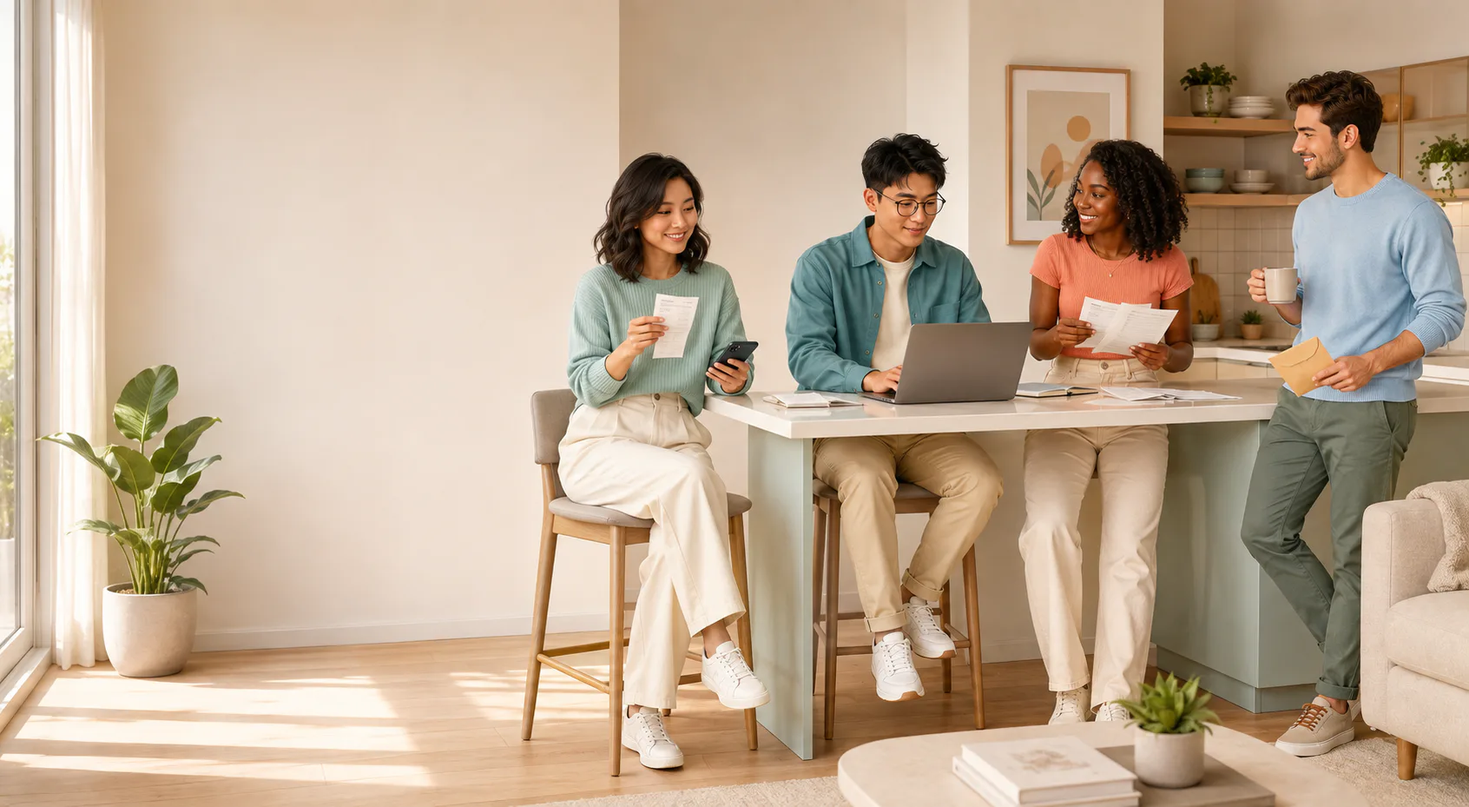
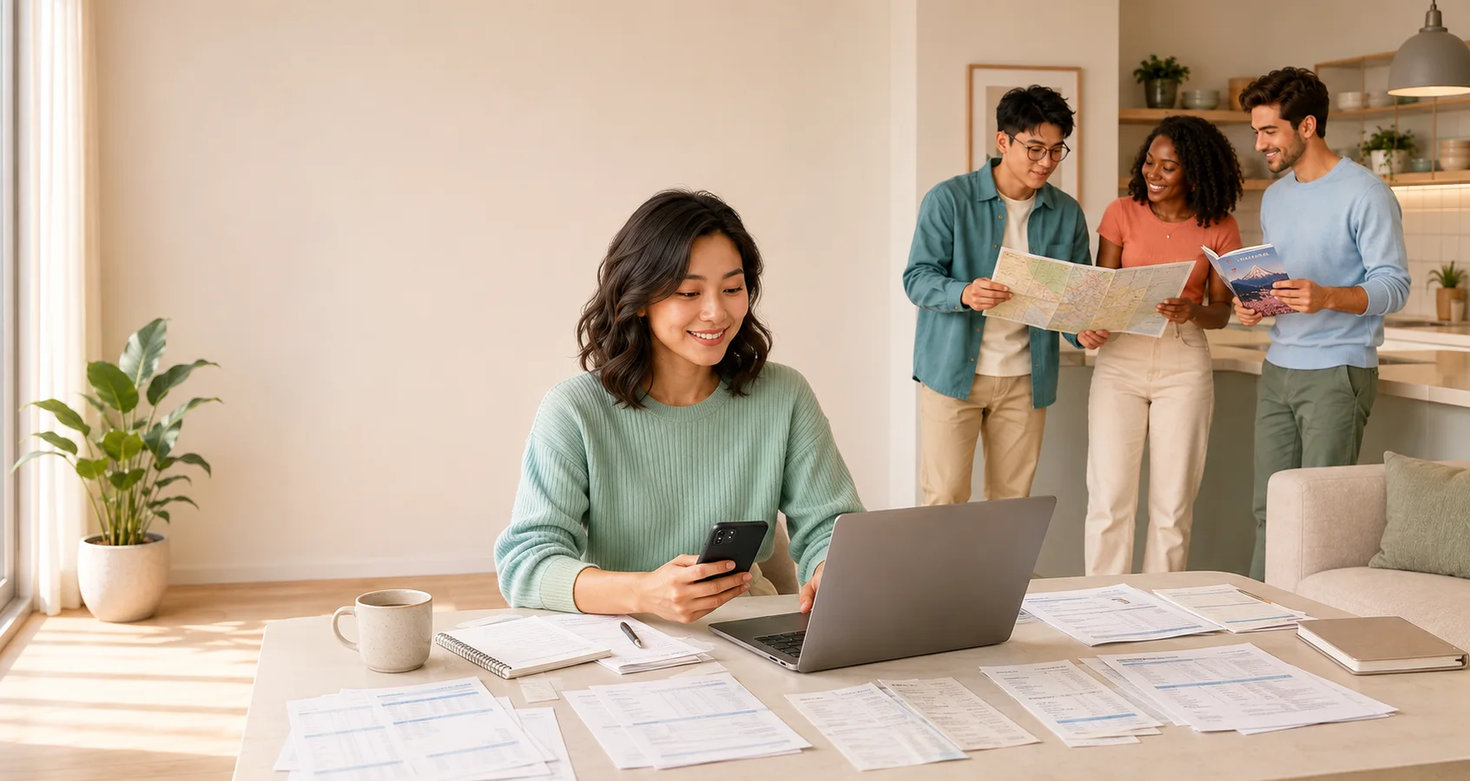
Rebuild landing preview as continuous upload story

diff --git a/web/app/landing-preview/landing-preview.module.css b/web/app/landing-preview/landing-preview.module.css
@@ -2,11 +2,12 @@
 .journey *{box-sizing:border-box}.stage{position:sticky;top:0;height:100svh;min-height:620px;overflow:hidden;isolation:isolate;background:radial-gradient(circle at 78% 22%,rgba(112,230,189,.3),transparent 27%),radial-gradient(circle at 60% 88%,rgba(3,168,192,.19),transparent 30%),linear-gradient(135deg,#fbfdfd,#eefaf8)}
 .header{position:absolute;z-index:50;top:14px;right:clamp(16px,3vw,44px);left:clamp(16px,3vw,44px);display:grid;grid-template-columns:1fr auto 1fr;align-items:center;height:66px;padding:9px 14px 9px 18px;border:1px solid rgba(255,255,255,.94);border-radius:22px;background:rgba(255,255,255,.82);box-shadow:0 14px 40px rgba(20,74,86,.1);backdrop-filter:blur(22px) saturate(1.2)}
 .header a{color:inherit;text-decoration:none}.brand{display:flex;align-items:center;gap:8px;justify-self:start}.brand img:first-child{width:34px;height:34px}.brand img:last-child{width:auto;height:26px}.header nav{display:flex;gap:28px;font-size:13px;font-weight:650}.headerActions{display:flex;align-items:center;justify-content:flex-end;gap:10px;font-size:13px;font-weight:700}.headerActions a:last-child{padding:10px 18px;border-radius:999px;color:#fff;background:linear-gradient(135deg,var(--teal),#4bc9ca)}
-.world{position:absolute;z-index:0;inset:0;overflow:hidden;background:#eef8f6}.sceneStack,.scene,.scene img{position:absolute;inset:0;width:100%;height:100%}.scene{display:block;opacity:0;transform:scale(1.035);transition:opacity .75s ease,transform 1.5s cubic-bezier(.16,1,.3,1)}.scene[data-active=true]{opacity:1;transform:scale(1)}.scene img{object-fit:cover;object-position:right center}.worldWash{position:absolute;inset:0;background:linear-gradient(90deg,rgba(249,253,253,.99) 0 35%,rgba(249,253,253,.88) 43%,rgba(249,253,253,.16) 69%,rgba(238,251,248,.04));transition:background .7s ease}.world svg{position:absolute;inset:0;width:100%;height:100%;fill:none;stroke:rgba(3,168,192,.2);stroke-width:2;stroke-dasharray:7 13;stroke-dashoffset:var(--path-offset,0);pointer-events:none}
+.world{position:absolute;z-index:0;inset:0;overflow:hidden;background:#eef8f6}.sceneStack,.scene,.sceneBackdrop,.sceneSubject,.sceneSubject img{position:absolute;inset:0;width:100%;height:100%}.scene{display:block;opacity:0;transform:scale(1.035);transition:opacity .75s ease,transform 1.5s cubic-bezier(.16,1,.3,1)}.scene[data-active=true]{opacity:1;transform:scale(1)}.scene img{object-fit:cover;object-position:right center}.sceneBackdrop{display:none}.worldWash{position:absolute;inset:0;background:linear-gradient(90deg,rgba(249,253,253,.99) 0 35%,rgba(249,253,253,.88) 43%,rgba(249,253,253,.16) 69%,rgba(238,251,248,.04));transition:background .7s ease}.world svg{position:absolute;inset:0;width:100%;height:100%;fill:none;stroke:rgba(3,168,192,.2);stroke-width:2;stroke-dasharray:7 13;stroke-dashoffset:var(--path-offset,0);pointer-events:none}
 .story{position:absolute;z-index:15;inset:0;pointer-events:none}.chapter{position:absolute;top:50%;left:clamp(30px,6.5vw,108px);width:min(520px,41vw);translate:0 -42%;opacity:0;filter:blur(7px);transform:translateY(24px);transition:opacity .5s ease,transform .75s cubic-bezier(.16,1,.3,1),filter .5s ease;pointer-events:none}.chapter[data-active=true]{opacity:1;filter:none;transform:none;pointer-events:auto}.chapter h1{margin:0;color:var(--ink);font-size:clamp(36px,3.75vw,56px);font-weight:600;line-height:1.04;letter-spacing:-.045em}.chapter h1 em{display:block;max-width:100%;color:var(--teal);font-style:normal;font-weight:600;overflow-wrap:break-word}.chapter p{max-width:490px;margin:18px 0 0;color:#43566b;font-size:clamp(15px,1.18vw,18px);line-height:1.52}.actions{display:flex;gap:11px;margin-top:24px;pointer-events:auto}.actions :global(.button){min-height:44px;padding-inline:19px;font-size:12px;box-shadow:0 12px 30px rgba(14,105,117,.11)}
 .people{position:absolute;z-index:7;right:2vw;bottom:2vh;width:min(36vw,520px);max-height:76vh;opacity:0;transform:translate3d(8vw,8vh,0) scale(.83);transform-origin:bottom right;filter:drop-shadow(0 25px 35px rgba(15,60,70,.16));transition:opacity .7s ease,transform 1s cubic-bezier(.16,1,.3,1);pointer-events:none}.people img{display:block;width:100%;height:auto;max-height:76vh;object-fit:contain;object-position:bottom}
 .documents{position:absolute;z-index:18;right:39vw;top:47%;width:255px;height:350px;opacity:0;transform:translateY(-35%) scale(.78);transition:opacity .55s ease,transform .85s cubic-bezier(.16,1,.3,1);pointer-events:none}.documents>div{position:absolute;width:165px;height:210px;padding:17px;border:1px solid rgba(255,255,255,.9);border-radius:16px;background:rgba(255,255,255,.93);box-shadow:0 20px 55px rgba(22,80,89,.16)}.documents>div:nth-child(1){top:0;left:0;rotate:-10deg}.documents>div:nth-child(2){right:0;bottom:0;rotate:9deg}.documents>div:nth-child(3){right:-13px;top:4px;rotate:14deg;background:#e5faf2}.documents>div:nth-child(4){left:-19px;bottom:0;rotate:-16deg;background:#e8f8fc}.documents small{display:block;color:#819096;font-size:8px;font-weight:800;letter-spacing:.13em}.documents b{display:block;margin:12px 0;font-size:18px}.documents i{display:block;height:5px;margin:9px 0;border-radius:9px;background:#d8e7e8}.documents span{display:grid;place-items:center;height:105px;color:var(--teal);font-size:44px}
 .phone{position:absolute;z-index:21;right:8vw;top:51%;width:300px;min-height:490px;padding:22px;border:8px solid #19303a;border-radius:42px;opacity:0;transform:translateY(-40%) scale(.65) rotate(7deg);background:#f8fbfc;box-shadow:0 34px 90px rgba(15,60,70,.28);transition:opacity .6s ease,transform .9s cubic-bezier(.16,1,.3,1);pointer-events:none}.phone::before{content:"";position:absolute;top:9px;left:50%;width:82px;height:20px;translate:-50%;border-radius:20px;background:#19303a}.phoneBar{display:flex;align-items:center;gap:9px;margin:11px -2px 25px;padding-bottom:12px;border-bottom:1px solid #dbe7ea;color:#314754;font-size:12px;font-weight:750}.phoneBar i{margin-left:auto;width:25px;height:25px;border-radius:50%;background:linear-gradient(135deg,var(--teal),var(--mint))}.phone>strong{display:block;font-size:23px;line-height:1.12}.phone>p{margin:8px 0 20px;color:#6c7a8a;font-size:12px;line-height:1.45}.uploadRows{display:grid;gap:8px}.uploadRows>span{display:flex;padding:12px;border-radius:12px;background:#eef6f7;color:#40545e;font-size:11px;font-weight:700}.uploadRows b{margin-left:auto;color:#009b85;font-size:10px}.phone>button{width:100%;margin-top:18px;padding:13px;border:0;border-radius:999px;color:#fff;background:linear-gradient(135deg,var(--teal),#48c9cb);font:inherit;font-size:12px;font-weight:800}
+.uploadDrop{display:grid;grid-template-columns:1fr 1fr;gap:7px;margin:0 0 10px;padding:11px;border:1px dashed rgba(3,168,192,.45);border-radius:13px;background:#f1fbfb}.uploadDrop b{grid-column:1/-1;color:#344d58;font-size:9px}.uploadDrop span{padding:7px 4px;border-radius:999px;color:#fff;background:var(--teal);font-size:8px;font-weight:800;text-align:center}.uploadDrop span+span{color:#087985;background:#fff;border:1px solid #bfe8ec}
 .laptop{position:absolute;z-index:20;right:4vw;top:51%;width:min(49vw,690px);opacity:0;transform:translateY(-37%) translateX(8vw) scale(.72);transition:opacity .65s ease,transform 1s cubic-bezier(.16,1,.3,1);pointer-events:none}.laptopScreen{overflow:hidden;aspect-ratio:16/10;padding:12px;border:10px solid #243a42;border-radius:22px;background:#f7fafb;box-shadow:0 34px 90px rgba(15,60,70,.25)}.laptopBase{display:block;width:112%;height:18px;margin:-2px 0 0 -6%;border-radius:3px 3px 16px 16px;background:linear-gradient(#dce6e8,#aebdc1)}.appBar{display:flex;align-items:center;gap:10px;height:42px;padding:0 10px;border-bottom:1px solid #dbe7ea;font-size:11px;font-weight:800}.appBar i{width:8px;height:8px;margin-left:auto;border-radius:50%;background:#c9dadc}.appBar i+i{margin-left:-5px;background:var(--teal)}.balance{margin:14px 12px 10px;padding:16px 18px;border-radius:17px;color:#fff;background:linear-gradient(110deg,#03a8c0,#64d9cb)}.balance small,.balance span{display:block;font-size:8px;letter-spacing:.13em}.balance strong{display:block;margin:5px 0;font-size:27px}.summary{display:grid;grid-template-columns:repeat(3,1fr);gap:8px;margin:0 12px}.summary>div{padding:11px;border:1px solid #e0e9eb;border-radius:10px;background:#fff}.summary small{display:block;color:#839097;font-size:7px;letter-spacing:.1em}.summary b{display:block;margin-top:4px;font-size:11px}.transactionRows{display:grid;margin:10px 12px}.transactionRows span{display:grid;grid-template-columns:8px 1fr auto;align-items:center;gap:8px;padding:7px;border-bottom:1px solid #e6edef;font-size:9px;font-weight:700}.transactionRows i{width:6px;height:6px;border-radius:50%;background:var(--teal)}.transactionRows b{font-size:9px}
 .adviser{position:absolute;z-index:23;right:6vw;top:51%;width:min(42vw,570px);padding:25px;border:1px solid rgba(255,255,255,.9);border-radius:26px;opacity:0;transform:translateY(-38%) scale(.72) rotate(3deg);background:rgba(255,255,255,.92);box-shadow:0 32px 85px rgba(16,69,79,.2);backdrop-filter:blur(22px);transition:opacity .6s ease,transform .95s cubic-bezier(.16,1,.3,1);pointer-events:none}.adviser>div:first-child{display:flex;align-items:center;gap:11px}.adviser>div:first-child span{display:grid}.adviser small{color:#788892;font-size:8px;letter-spacing:.14em}.adviser>div:first-child b{font-size:14px}.adviser>p{margin:23px 0;color:#223a45;font-size:clamp(17px,1.55vw,22px);font-weight:560;line-height:1.42}.suggestion{display:grid;grid-template-columns:auto 1fr auto;align-items:center;gap:12px;padding:14px;border-radius:16px;background:linear-gradient(135deg,#e7faf3,#e9f8fc)}.suggestion span{display:grid;place-items:center;width:41px;aspect-ratio:1;border-radius:13px;background:#ffd96d}.suggestion b{font-size:12px}.suggestion strong{font-size:12px;color:#087985}.adviser>button{display:block;margin:17px 0 0 auto;padding:11px 16px;border:0;border-radius:999px;color:#fff;background:var(--teal);font:inherit;font-size:11px;font-weight:800}
 .planCard{position:absolute;z-index:24;right:5vw;bottom:5vh;width:min(34vw,440px);padding:22px;border:1px solid rgba(255,255,255,.92);border-radius:25px;opacity:0;transform:translateY(30px) scale(.76);background:rgba(255,255,255,.94);box-shadow:0 30px 80px rgba(17,69,80,.22);backdrop-filter:blur(22px);transition:opacity .6s ease,transform .95s cubic-bezier(.16,1,.3,1);pointer-events:none}.planCard>div:first-child{display:flex;align-items:center;gap:10px}.planCard>div:first-child span{display:grid}.planCard small{color:#76868f;font-size:8px;letter-spacing:.12em}.planCard b{font-size:14px}.planCard>strong{display:block;margin:18px 0 13px;color:#087985;font-size:28px}.planCard>strong small{font-size:10px}.planCard>div:nth-of-type(2){display:grid;grid-template-columns:repeat(4,1fr);gap:5px;height:9px}.planCard i{border-radius:99px;background:#d9edef}.planCard i:nth-child(-n+3){background:linear-gradient(90deg,var(--teal),var(--mint))}.planCard>p{margin:9px 0 0;color:#526571;font-size:10px;font-weight:700}
@@ -110,4 +111,53 @@
   .chapter p{font-size:11.5px}
   .actions{width:min(228px,67vw)}
   .sceneStack{top:31%;height:45%}
+}
+
+/* Continuous story engine: the background, copy and Clover surfaces all
+   interpolate with scroll position rather than waiting for a hard chapter. */
+.journey{height:520svh}
+.scene{transition:none;will-change:opacity,transform}
+.scene:nth-child(1){transform-origin:63% 70%}.scene:nth-child(2){transform-origin:62% 65%}.scene:nth-child(3){transform-origin:58% 68%}.scene:nth-child(4){transform-origin:64% 63%}.scene:nth-child(5){transform-origin:66% 72%}.scene:nth-child(6){transform-origin:65% 70%}
+.chapter,.documents,.phone,.laptop,.adviser,.planCard{transition:none;will-change:opacity,transform}
+.ingestionPortal{position:absolute;z-index:26;bottom:11vh;left:clamp(34px,5.4vw,82px);display:grid;grid-template-columns:auto 1fr;align-items:center;gap:11px;width:min(300px,23vw);padding:13px 15px;border:1px solid rgba(255,255,255,.92);border-radius:20px;background:rgba(255,255,255,.92);box-shadow:0 24px 65px rgba(15,73,83,.18);backdrop-filter:blur(18px);pointer-events:none;will-change:opacity,transform}
+.ingestionPortal>span:nth-child(2){display:grid}.ingestionPortal small{color:#71858d;font-size:7px;font-weight:800;letter-spacing:.14em}.ingestionPortal b{font-size:11px;line-height:1.25}.ingestionPulse{position:relative;display:grid;place-items:center;width:55px;height:55px;border-radius:18px;background:linear-gradient(135deg,#e7fbf4,#e8f8fc)}.ingestionPulse::before,.ingestionPulse::after{content:"";position:absolute;inset:-7px;border:1px solid rgba(3,168,192,.34);border-radius:23px;animation:ingestion-pulse 2.2s ease-out infinite}.ingestionPulse::after{animation-delay:1.1s}.ingestionPortal>i{position:absolute;right:-18px;width:7px;height:7px;border-radius:50%;background:var(--teal);box-shadow:0 0 0 6px rgba(3,168,192,.1);animation:ingestion-particle 1.8s ease-in-out infinite}.ingestionPortal>i:nth-of-type(1){top:18px}.ingestionPortal>i:nth-of-type(2){top:40px;animation-delay:.4s}.ingestionPortal>i:nth-of-type(3){top:61px;animation-delay:.8s}
+@keyframes ingestion-pulse{0%{opacity:.7;transform:scale(.82)}80%,100%{opacity:0;transform:scale(1.18)}}
+@keyframes ingestion-particle{0%,100%{opacity:.25;transform:translateX(-2px)}50%{opacity:1;transform:translateX(17px)}}
+
+@media(min-width:901px){
+  .sceneSubject img{object-fit:cover;object-position:center center}
+  .documents{bottom:1vh;left:clamp(240px,21vw,315px)}
+  .phone{bottom:2.5vh}
+  .laptop{bottom:2vh}
+  .adviser{bottom:3vh}
+  .planCard{bottom:5vh}
+}
+
+@media(min-width:901px) and (max-width:1199px){
+  .sceneBackdrop{display:block;background-image:var(--scene-backdrop);background-position:center;background-size:cover;filter:blur(13px) saturate(.82);transform:scale(1.06);opacity:.42}
+  .sceneSubject img{object-fit:contain;object-position:right center}
+  .documents{left:18px;width:205px;height:275px}.documents>div{width:132px;height:168px}
+}
+
+@media(max-width:900px){
+  .journey{height:560svh}
+  .sceneStack{inset:0;height:100%}
+  .sceneSubject img{object-fit:cover;object-position:center center}
+  .world>.worldWash,.journey[data-chapter="5"] .worldWash{background:linear-gradient(180deg,rgba(249,253,253,.98) 0 27%,rgba(249,253,253,.84) 34%,rgba(249,253,253,.16) 43%,transparent 49%)}
+  .ingestionPortal{top:auto;bottom:72px;left:14px;width:min(225px,67vw);padding:10px 12px;border-radius:16px}
+  .ingestionPulse{width:42px;height:42px;border-radius:13px}.ingestionPulse img{width:34px;height:34px}.ingestionPortal b{font-size:9px}
+  .documents{top:auto;bottom:5px;left:0;width:104px;height:132px}
+  .documents>div{width:66px;height:82px;padding:6px;border-radius:8px}.documents small{font-size:4px}.documents b{margin:4px 0;font-size:8px}.documents i{height:2px;margin:4px 0}.documents span{height:35px;font-size:18px}
+  .phone{right:14px;bottom:10px;left:auto;width:min(45vw,180px);min-height:285px;padding:15px;border-width:6px;border-radius:30px}
+  .phone::before{width:55px;height:14px}.phoneBar{margin-bottom:14px}.phone>strong{font-size:17px}.phone>p{margin:6px 0 9px;font-size:9px}.uploadDrop{gap:4px;margin-bottom:7px;padding:7px}.uploadDrop b{font-size:7px}.uploadDrop span{padding:5px 2px;font-size:6px}.uploadRows{gap:4px}.uploadRows>span{padding:6px;font-size:7px}.uploadRows b{font-size:6px}.phone>button{margin-top:8px;padding:8px;font-size:8px}
+  .laptop{right:auto;bottom:8px;left:12px;width:82vw}
+  .adviser{right:auto;bottom:8px;left:12px;width:76vw;padding:14px}.adviser>p{margin:10px 0;font-size:12px}.suggestion{padding:9px}.adviser>button{margin-top:10px}
+  .planCard{right:auto;bottom:10px;left:12px;width:66vw;padding:14px}.planCard>strong{margin:12px 0 9px;font-size:22px}
+}
+
+@media(max-width:540px){
+  .sceneStack{inset:0;height:100%}
+  .chapter{top:78px}
+  .chapter h1{font-size:clamp(23px,6.7vw,28px)}
+  .chapter p{max-width:35ch;font-size:11px}
 }

diff --git a/web/app/landing-preview/landing-journey.tsx b/web/app/landing-preview/landing-journey.tsx
@@ -7,11 +7,11 @@ import { LandingSignupModal } from "@/components/landing-signup-modal";
 import styles from "./landing-preview.module.css";
 
 const chapters = [
-  { title: <>Months of finances.<br /><em>Organized in minutes.</em></>, copy: "Upload statements, receipts, screenshots, or spreadsheets. Understand your money and take one clearer step at a time." },
-  { title: <>Never rebuild your financial history <em>again.</em></>, copy: "Bring the files already on your phone or computer. Clover reads the details so you do not have to enter every transaction manually." },
-  { title: <>Your files become one clear <em>financial picture.</em></>, copy: "Transactions, accounts, balances, and categories come together in a searchable view you can review and correct." },
-  { title: <>Finally understand where your money actually <em>goes.</em></>, copy: "Ask Adviser what changed, what caused it, and what deserves your attention next—using your own financial context." },
-  { title: <>Turn every insight into one clear <em>next step.</em></>, copy: "Build a budget, adjust a goal, review a recurring payment, or settle a shared expense right from the recommendation." },
+  { title: <>Months of finances.<br /><em>Organized in minutes.</em></>, copy: "Drop in statements, receipts, screenshots, or spreadsheets. Clover turns what you already have into a financial picture you can use." },
+  { title: <>Do not rebuild your financial history <em>by hand.</em></>, copy: "Clover reads dates, merchants, amounts, and accounts while you stay in control of what gets confirmed." },
+  { title: <>Everything lands in one clear <em>financial picture.</em></>, copy: "Your accounts, transactions, balances, and categories become searchable, reviewable, and easy to correct." },
+  { title: <>Ask what your money can make <em>possible.</em></>, copy: "Could you comfortably afford Japan next spring? Adviser answers using your own spending, commitments, and goals." },
+  { title: <>Turn the answer into a plan that <em>fits.</em></>, copy: "Clover suggests a realistic monthly amount and lets you adjust the plan before making it yours." },
   { title: <>Your money, handled.<br /><em>Your life, uninterrupted.</em></>, copy: null },
 ] as const;
 
@@ -38,6 +38,9 @@ const marketContent = {
   },
 } as const;
 
+const clamp = (value: number, minimum = 0, maximum = 1) => Math.min(maximum, Math.max(minimum, value));
+const presenceAround = (position: number, center: number, radius: number) => clamp(1 - Math.abs(position - center) / radius);
+
 function JourneyActions({ authEnabled, final = false }: { authEnabled: boolean; final?: boolean }) {
   return <div className={styles.actions}>
     {authEnabled ? <LandingSignupModal enabled>Organize my finances for free</LandingSignupModal> : <Link className="button button-primary button-pill" href="/sign-up" prefetch={false}>Organize my finances for free</Link>}
@@ -49,6 +52,7 @@ export function LandingJourney({ authEnabled, initialMarket, countryResolved }: 
   const journeyRef = useRef<HTMLDivElement>(null);
   const frameRef = useRef<number | null>(null);
   const [chapter, setChapter] = useState(0);
+  const [storyPosition, setStoryPosition] = useState(0);
   const [market, setMarket] = useState<LandingMarket>(initialMarket);
 
   useEffect(() => {
@@ -66,10 +70,12 @@ export function LandingJourney({ authEnabled, initialMarket, countryResolved }: 
       const bounds = journey.getBoundingClientRect();
       const distance = Math.max(1, journey.offsetHeight - window.innerHeight);
       const progress = Math.min(1, Math.max(0, -bounds.top / distance));
-      const nextChapter = Math.min(chapters.length - 1, Math.floor(progress * chapters.length));
+      const nextPosition = progress * (chapters.length - 1);
+      const nextChapter = Math.min(chapters.length - 1, Math.round(nextPosition));
       journey.style.setProperty("--journey-progress", progress.toFixed(4));
       journey.style.setProperty("--path-offset", `${progress * -240}px`);
       setChapter((current) => current === nextChapter ? current : nextChapter);
+      setStoryPosition((current) => Math.abs(current - nextPosition) < 0.002 ? current : nextPosition);
     };
     const requestUpdate = () => { if (frameRef.current === null) frameRef.current = window.requestAnimationFrame(update); };
     update();
@@ -86,11 +92,31 @@ export function LandingJourney({ authEnabled, initialMarket, countryResolved }: 
     const journey = journeyRef.current;
     if (!journey) return;
     const distance = journey.offsetHeight - window.innerHeight;
-    const top = window.scrollY + journey.getBoundingClientRect().top + distance * ((index + 0.08) / chapters.length);
+    const top = window.scrollY + journey.getBoundingClientRect().top + distance * (index / (chapters.length - 1));
     window.scrollTo({ top, behavior: window.matchMedia("(prefers-reduced-motion: reduce)").matches ? "auto" : "smooth" });
   };
 
   const local = marketContent[market];
+  const sceneMotion = (index: number): CSSProperties => {
+    const distance = storyPosition - index;
+    return {
+      opacity: clamp(1 - Math.abs(distance)),
+      transform: `translate3d(${distance * -1.2}%, ${distance * -0.6}%, 0) scale(${1 + Math.min(1, Math.abs(distance)) * 0.065})`,
+    };
+  };
+  const chapterMotion = (index: number): CSSProperties => {
+    const distance = storyPosition - index;
+    return {
+      opacity: clamp(1 - Math.abs(distance) * 1.35),
+      filter: `blur(${Math.min(8, Math.abs(distance) * 8)}px)`,
+      transform: `translate3d(0, ${distance * -22}px, 0)`,
+    };
+  };
+  const visualMotion = (center: number, radius: number, direction = 1): CSSProperties => {
+    const presence = presenceAround(storyPosition, center, radius);
+    const travel = (storyPosition - center) * 34 * direction;
+    return { opacity: presence, transform: `translate3d(${travel}px, ${Math.abs(storyPosition - center) * 8}px, 0) scale(${0.88 + presence * 0.12})` };
+  };
 
   return <div ref={journeyRef} className={styles.journey} data-chapter={chapter} data-market={market} style={{ "--journey-progress": 0 } as CSSProperties}>
     <div className={styles.stage}>
@@ -106,10 +132,13 @@ export function LandingJourney({ authEnabled, initialMarket, countryResolved }: 
       <div className={styles.world} aria-hidden="true">
         <div className={styles.sceneStack}>
           {scenes.map((scene, index) => (
-            <picture className={styles.scene} data-active={chapter === index} key={scene}>
-              <source media="(max-width: 900px)" srcSet={`/assets/landing-story-v2/${scene}-mobile.webp`} />
-              <img src={`/assets/landing-story-v2/${scene}.webp`} alt="" fetchPriority={index === 0 ? "high" : "auto"} />
-            </picture>
+            <div className={styles.scene} data-active={chapter === index} key={scene} style={sceneMotion(index)}>
+              <span className={styles.sceneBackdrop} style={{ "--scene-backdrop": `url("/assets/landing-story-v2/${scene}.webp")` } as CSSProperties} />
+              <picture className={styles.sceneSubject}>
+                <source media="(max-width: 900px)" srcSet={`/assets/landing-story-v2/${scene}-mobile.webp`} />
+                <img src={`/assets/landing-story-v2/${scene}.webp`} alt="" fetchPriority={index === 0 ? "high" : "auto"} />
+              </picture>
+            </div>
           ))}
         </div>
         <div className={styles.worldWash} />
@@ -117,37 +146,44 @@ export function LandingJourney({ authEnabled, initialMarket, countryResolved }: 
       </div>
 
       <section className={styles.story} aria-live="polite">
-        {chapters.map((item, index) => <div className={styles.chapter} data-active={chapter === index} key={index} aria-hidden={chapter !== index}>
+        {chapters.map((item, index) => <div className={styles.chapter} data-active={chapter === index} key={index} aria-hidden={chapter !== index} style={chapterMotion(index)}>
           <h1>{item.title}</h1>
           {item.copy ? <p>{item.copy}</p> : null}
           {(index === 0 || index === chapters.length - 1) && <JourneyActions authEnabled={authEnabled} final={index === chapters.length - 1} />}
         </div>)}
       </section>
 
-      <div className={styles.documents} data-story-visual="documents" aria-hidden="true">
+      <div className={styles.ingestionPortal} data-story-visual="ingestion" aria-hidden="true" style={visualMotion(0.15, 0.48)}>
+        <span className={styles.ingestionPulse}><Image src="/clover-mark.svg" alt="" width={46} height={46} /></span>
+        <span><small>CLOVER UPLOAD</small><b>Drop in what you already have</b></span>
+        <i /><i /><i />
+      </div>
+
+      <div className={styles.documents} data-story-visual="documents" aria-hidden="true" style={visualMotion(0.1, 0.42)}>
         <div><small>{local.documents[0][0]}</small><b>{local.documents[0][1]}</b><i /><i /><i /></div>
         <div><small>{local.documents[1][0]}</small><b>{local.documents[1][1]}</b><i /><i /></div>
         <div><small>{local.documents[2][0]}</small><b>{local.documents[2][1]}</b><span>▦</span></div>
         <div><small>{local.documents[3][0]}</small><b>{local.documents[3][1]}</b><span>▤</span></div>
       </div>
 
-      <div className={styles.phone} data-story-visual="phone" aria-hidden="true">
+      <div className={styles.phone} data-story-visual="phone" aria-hidden="true" style={visualMotion(1, 0.58, -1)}>
         <div className={styles.phoneBar}><Image src="/clover-mark.svg" alt="" width={28} height={28} /><span>Upload files</span><i /></div>
-        <strong>Bring in your finances</strong><p>Choose the records already on your device.</p>
+        <strong>Add financial files</strong><p>Take a photo or choose statements, receipts, spreadsheets, and screenshots.</p>
+        <div className={styles.uploadDrop}><b>Drop files anywhere</b><span>Take photo</span><span>Choose files</span></div>
         <div className={styles.uploadRows}>{local.uploadRows.map((label, index) => <span key={label}>{["▤", "▧", "▦"][index]} {label} <b>Ready</b></span>)}</div>
         <button type="button">Upload 3 files</button>
       </div>
 
-      <div className={styles.laptop} data-story-visual="laptop" aria-hidden="true"><div className={styles.laptopScreen}>
+      <div className={styles.laptop} data-story-visual="laptop" aria-hidden="true" style={visualMotion(2, 0.58)}><div className={styles.laptopScreen}>
         <div className={styles.appBar}><Image src="/clover-mark.svg" alt="" width={26} height={26} /><span>Home</span><i /><i /></div>
         <div className={styles.balance}><small>MY BALANCE</small><strong>{local.balance}</strong><span>Across your accounts</span></div>
         <div className={styles.summary}><div><small>INCOME</small><b>{local.income}</b></div><div><small>EXPENSES</small><b>{local.expenses}</b></div><div><small>NET CASH FLOW</small><b>{local.cashFlow}</b></div></div>
         <div className={styles.transactionRows}>{local.transactions.map(([label, amount]) => <span key={label}><i />{label}<b>{amount}</b></span>)}</div>
       </div><span className={styles.laptopBase} /></div>
 
-      <div className={styles.adviser} data-story-visual="adviser" aria-hidden="true"><div><Image src="/clover-mark.svg" alt="" width={34} height={34} /><span><small>ASK CLOVER</small><b>Your financial picture</b></span></div><p>{local.insight}</p><div className={styles.suggestion}><span>✈</span><b>Japan in spring</b><strong>{local.planAmount} monthly</strong></div><button type="button">Create this plan →</button></div>
+      <div className={styles.adviser} data-story-visual="adviser" aria-hidden="true" style={visualMotion(3, 0.58, -1)}><div><Image src="/clover-mark.svg" alt="" width={34} height={34} /><span><small>ASK CLOVER</small><b>Your financial picture</b></span></div><p>{local.insight}</p><div className={styles.suggestion}><span>✈</span><b>Japan in spring</b><strong>{local.planAmount} monthly</strong></div><button type="button">Create this plan →</button></div>
 
-      <div className={styles.planCard} data-story-visual="plan" aria-hidden="true">
+      <div className={styles.planCard} data-story-visual="plan" aria-hidden="true" style={visualMotion(4, 0.58)}>
         <div><Image src="/clover-mark.svg" alt="" width={30} height={30} /><span><small>CLOVER RECOMMENDATION</small><b>Japan trip</b></span></div>
         <strong>{local.planAmount} <small>per month</small></strong>
         <div><i /><i /><i /><i /></div>

diff --git a/web/scripts/browser-compatibility-regression.ts b/web/scripts/browser-compatibility-regression.ts
@@ -1,6 +1,7 @@
 import assert from "node:assert/strict";
 import { access, readFile } from "node:fs/promises";
 import path from "node:path";
+import sharp from "sharp";
 import { getVerifiedSpendingMerchantName } from "../lib/transaction-display";
 
 const root = process.cwd();
@@ -17,14 +18,26 @@ async function main() {
       ["", "-mobile"].map((suffix) => access(path.join(root, `../assets/landing-story-v2/${scene}${suffix}.webp`))),
     ),
   );
+  const mobileSceneMetadata = await Promise.all(
+    landingSceneNames.map((scene) => sharp(path.join(root, `../assets/landing-story-v2/${scene}-mobile.webp`)).metadata()),
+  );
+  assert.ok(
+    mobileSceneMetadata.every((metadata) => (metadata.height ?? 0) > (metadata.width ?? 0)),
+    "Every mobile landing scene must use a portrait source so full-viewport cover does not crop out the cast.",
+  );
   assert.match(landingJourneySource, /const scenes = \["01-organize", "02-upload", "03-picture", "04-adviser", "05-plan", "06-life"\]/, "The scrollable landing story must retain all six people-led scenes in order.");
   assert.match(landingJourneySource, /<source media="\(max-width: 900px\)" srcSet=\{`\/assets\/landing-story-v2\/\$\{scene\}-mobile\.webp`\}/, "The landing story must use mobile-specific crops that keep its recurring cast visible.");
+  assert.match(landingJourneySource, /className=\{styles\.sceneBackdrop\}/, "Intermediate desktop sizes must retain a full-bleed backdrop behind the uncropped cast.");
   assert.match(landingJourneyStyles, /@media\(max-width:900px\)\{[\s\S]*?\.markers\{right:8px;top:50%;bottom:auto;flex-direction:column;/, "The landing-story chapter tracker must remain on the right on mobile.");
   assert.match(landingPreviewPageSource, /x-vercel-ip-country/, "The landing preview must choose localized finance examples from the visitor country.");
   assert.match(landingJourneySource, /BPI STATEMENT[\s\S]*GCASH EXPORT[\s\S]*CHASE STATEMENT[\s\S]*PAYPAL EXPORT/, "The landing preview must keep Philippine and global document examples.");
   assert.match(landingJourneySource, /data-market=\{market\}/, "The selected landing market must remain observable for browser verification.");
   assert.match(landingJourneyStyles, /Keep the cast in a clear, unfiltered scene plane/, "The landing composition must preserve an unobstructed people layer.");
-  assert.match(landingJourneyStyles, /@media\(max-width:900px\)\{[\s\S]*?\.sceneStack\{top:31%;height:45%\}/, "Mobile must keep people and product surfaces in separate vertical planes.");
+  assert.match(landingJourneySource, /progress \* \(chapters\.length - 1\)/, "Landing chapters must advance continuously with scroll progress.");
+  assert.match(landingJourneySource, /style=\{sceneMotion\(index\)\}/, "Landing backgrounds must interpolate on every scroll update.");
+  assert.match(landingJourneySource, /data-story-visual="ingestion"/, "The hero must visibly show Clover ingesting existing financial files.");
+  assert.match(landingJourneyStyles, /Continuous story engine:[\s\S]*?\.journey\{height:520svh\}/, "The landing journey must avoid long inactive scroll intervals.");
+  assert.match(landingJourneyStyles, /@media\(max-width:900px\)\{[\s\S]*?\.sceneStack\{inset:0;height:100%\}[\s\S]*?\.sceneSubject img\{object-fit:cover;/, "Mobile scenes must fill the viewport from portrait-safe sources.");
 
   assert.equal(
     getVerifiedSpendingMerchantName({
